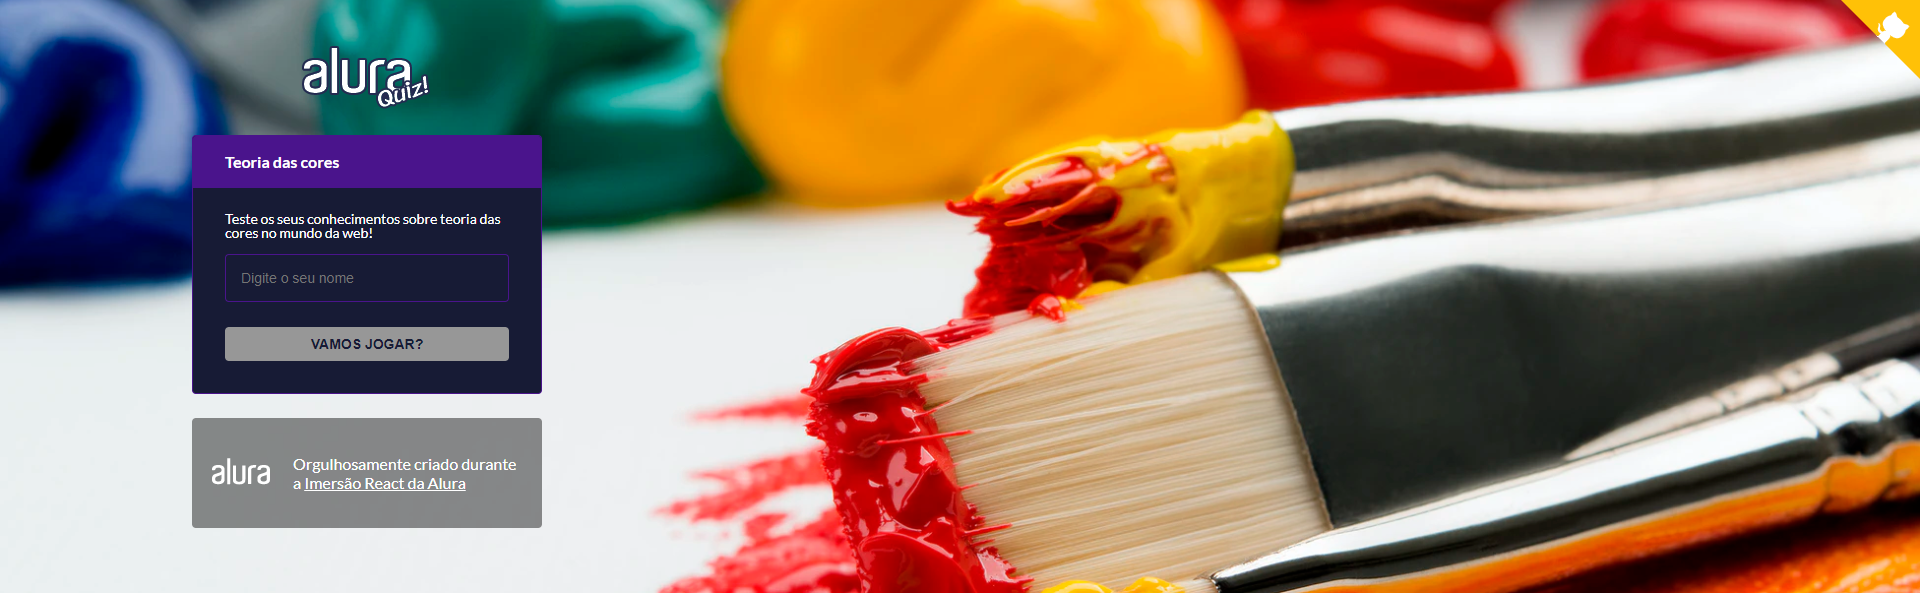
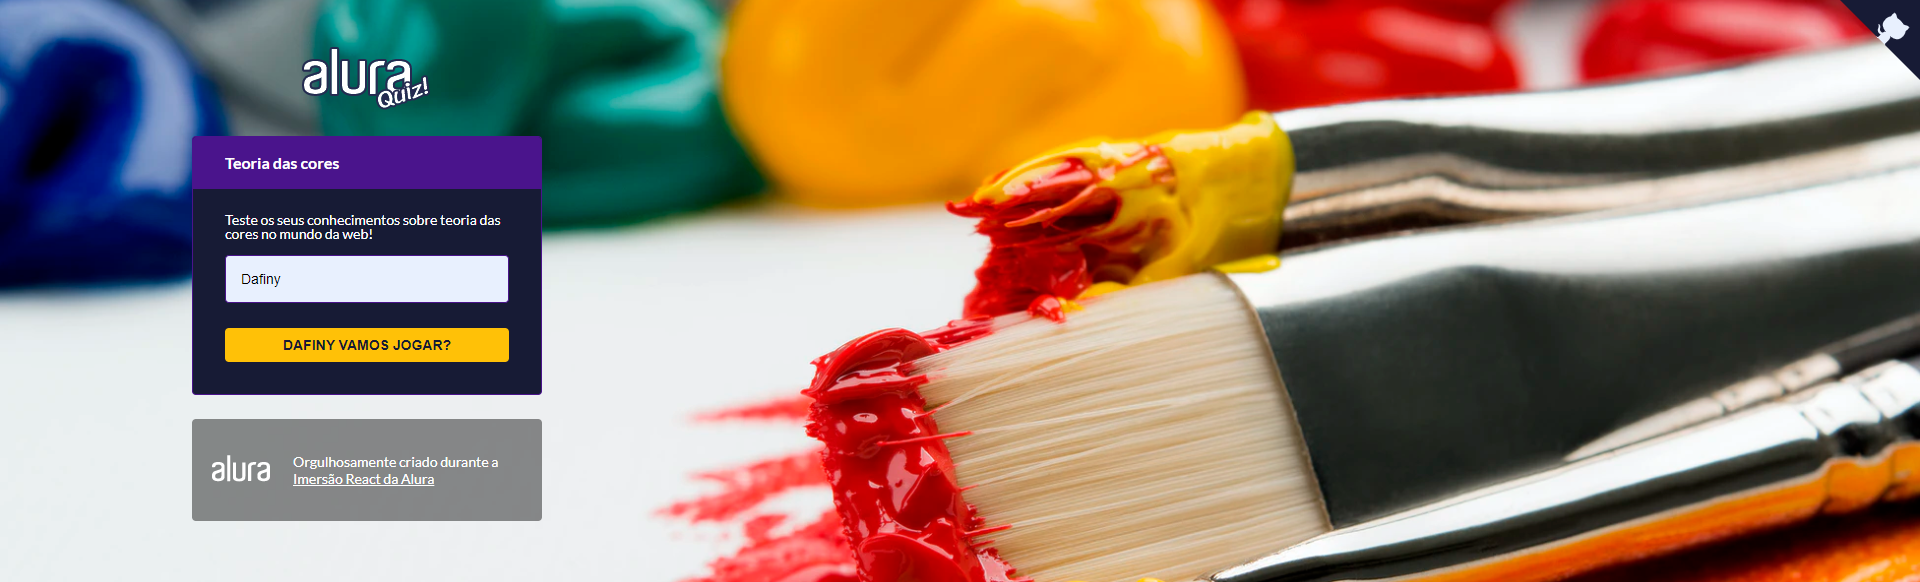
Ajustes no layout

diff --git a/src/components/GitHubCorner/index.js b/src/components/GitHubCorner/index.js
@@ -10,8 +10,8 @@ const Wrapper = styled.div`
 `;
 
 const SVGWrapper = styled.svg`
-  fill: ${({ theme }) => theme.colors.secondary};
-  color: ${({ theme }) => theme.colors.mainBg};
+  fill: ${({ theme }) => theme.colors.mainBg};
+  color: ${({ theme }) => theme.colors.lightgray};
   cursor: pointer;
   &:hover .octo-arm{
     animation:octocat-wave 560ms ease-in-out

diff --git a/src/components/Footer/index.js b/src/components/Footer/index.js
@@ -7,6 +7,7 @@ const FooterWrapper = styled.footer`
   display: flex;
   align-items: center;
   border-radius: 4px; 
+  font-size: 14px;
   img {
     width: 58px;
     margin-right: 23px;
